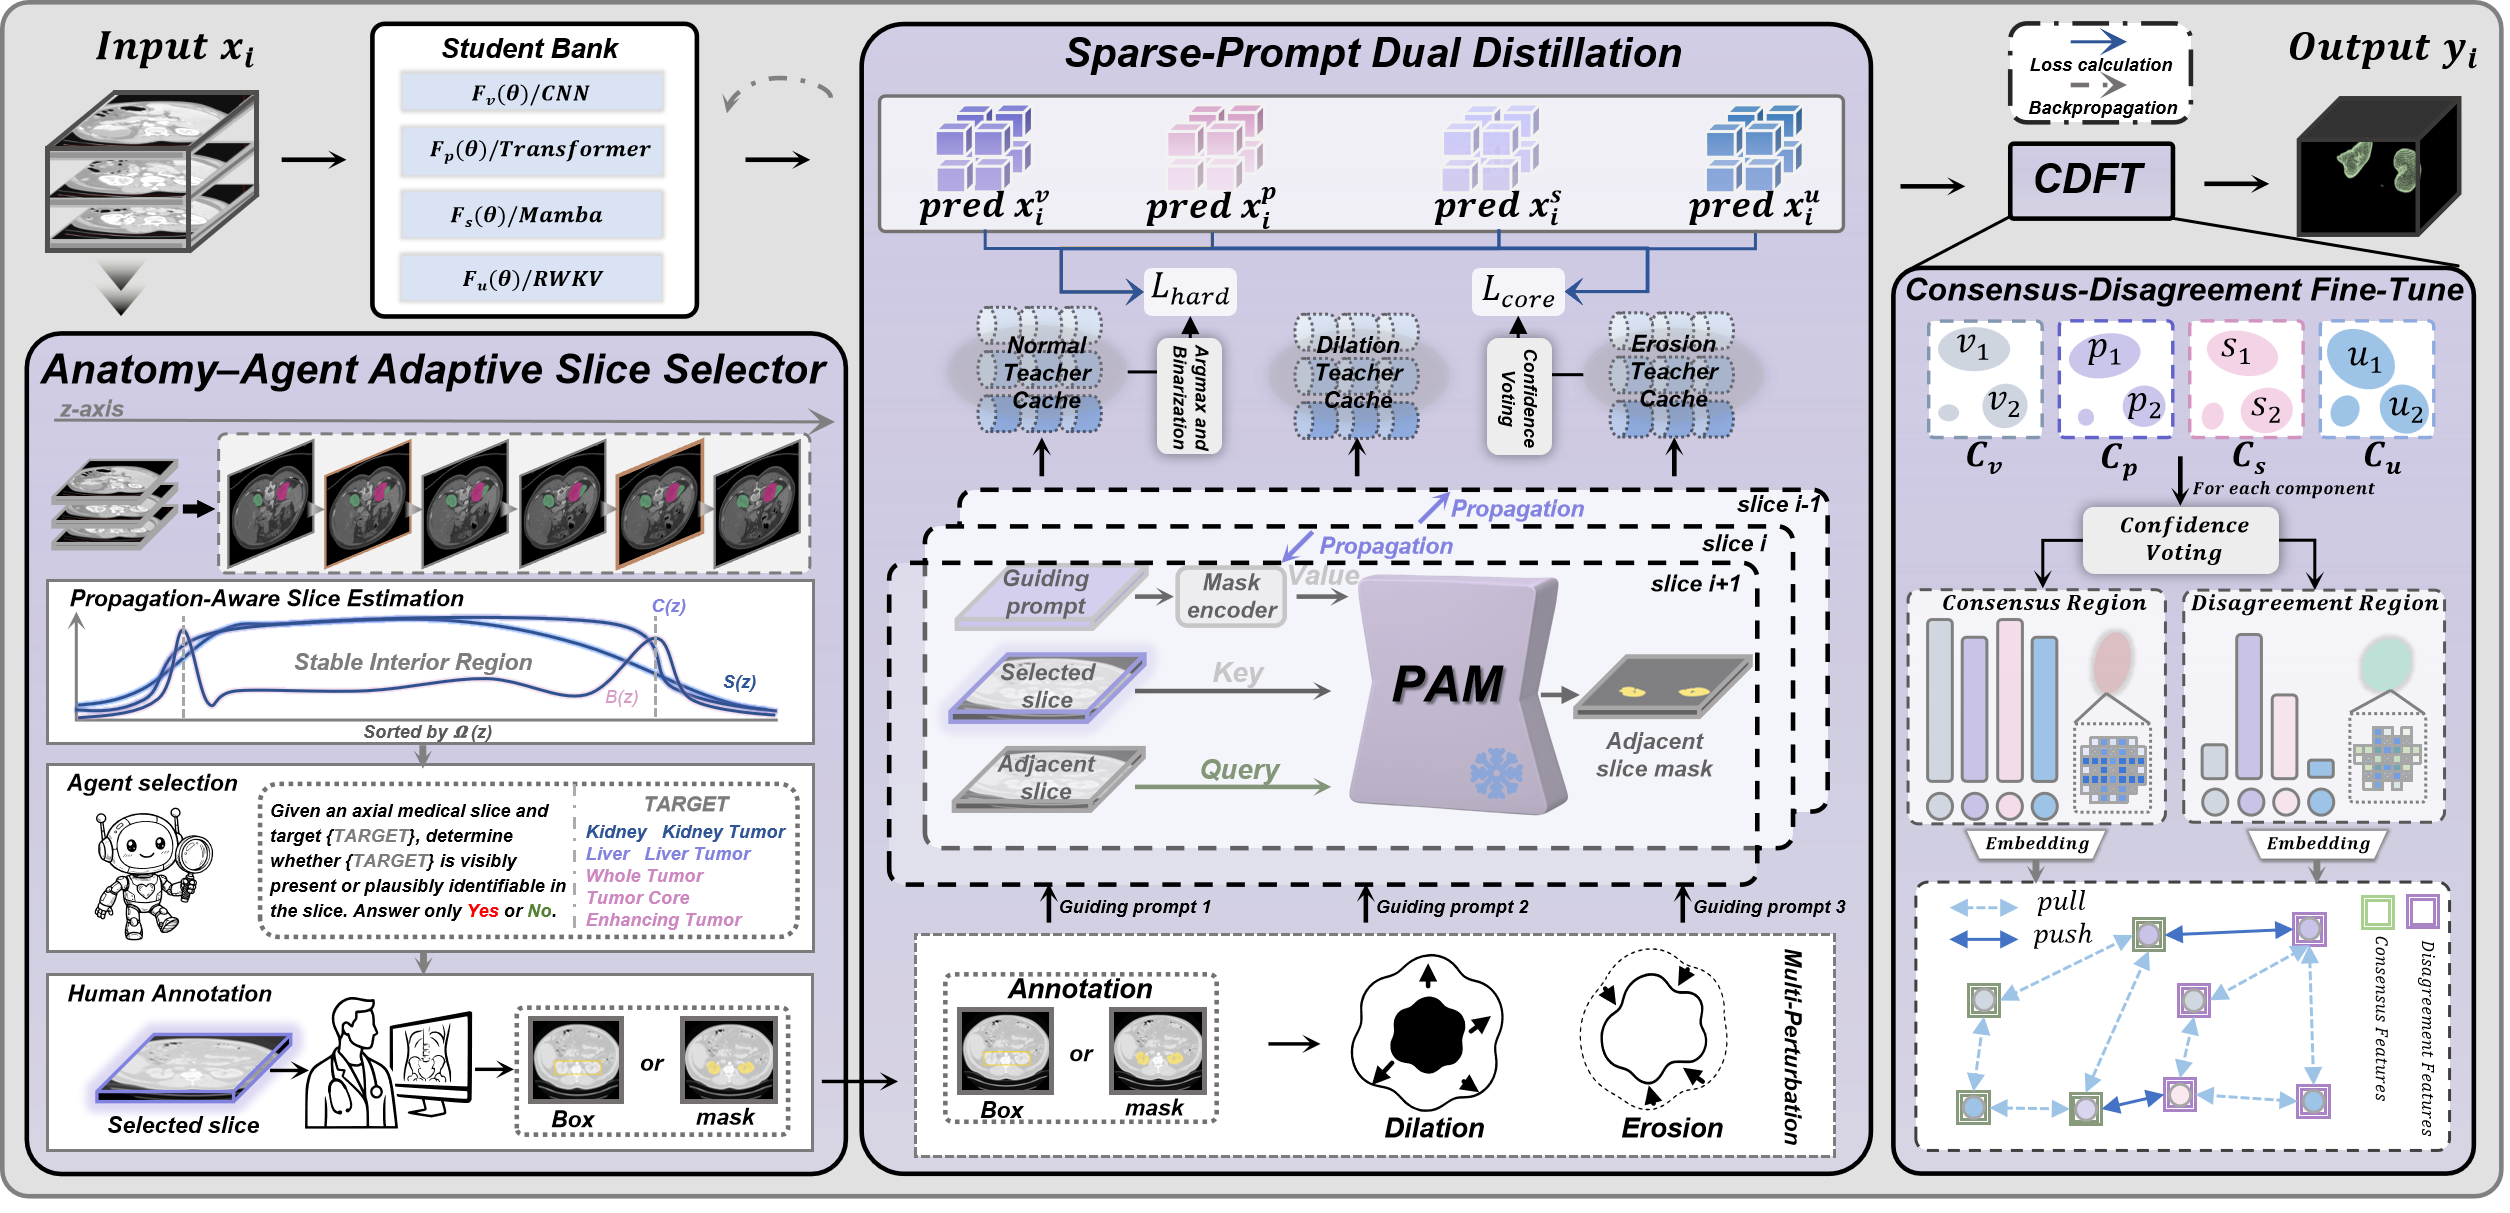
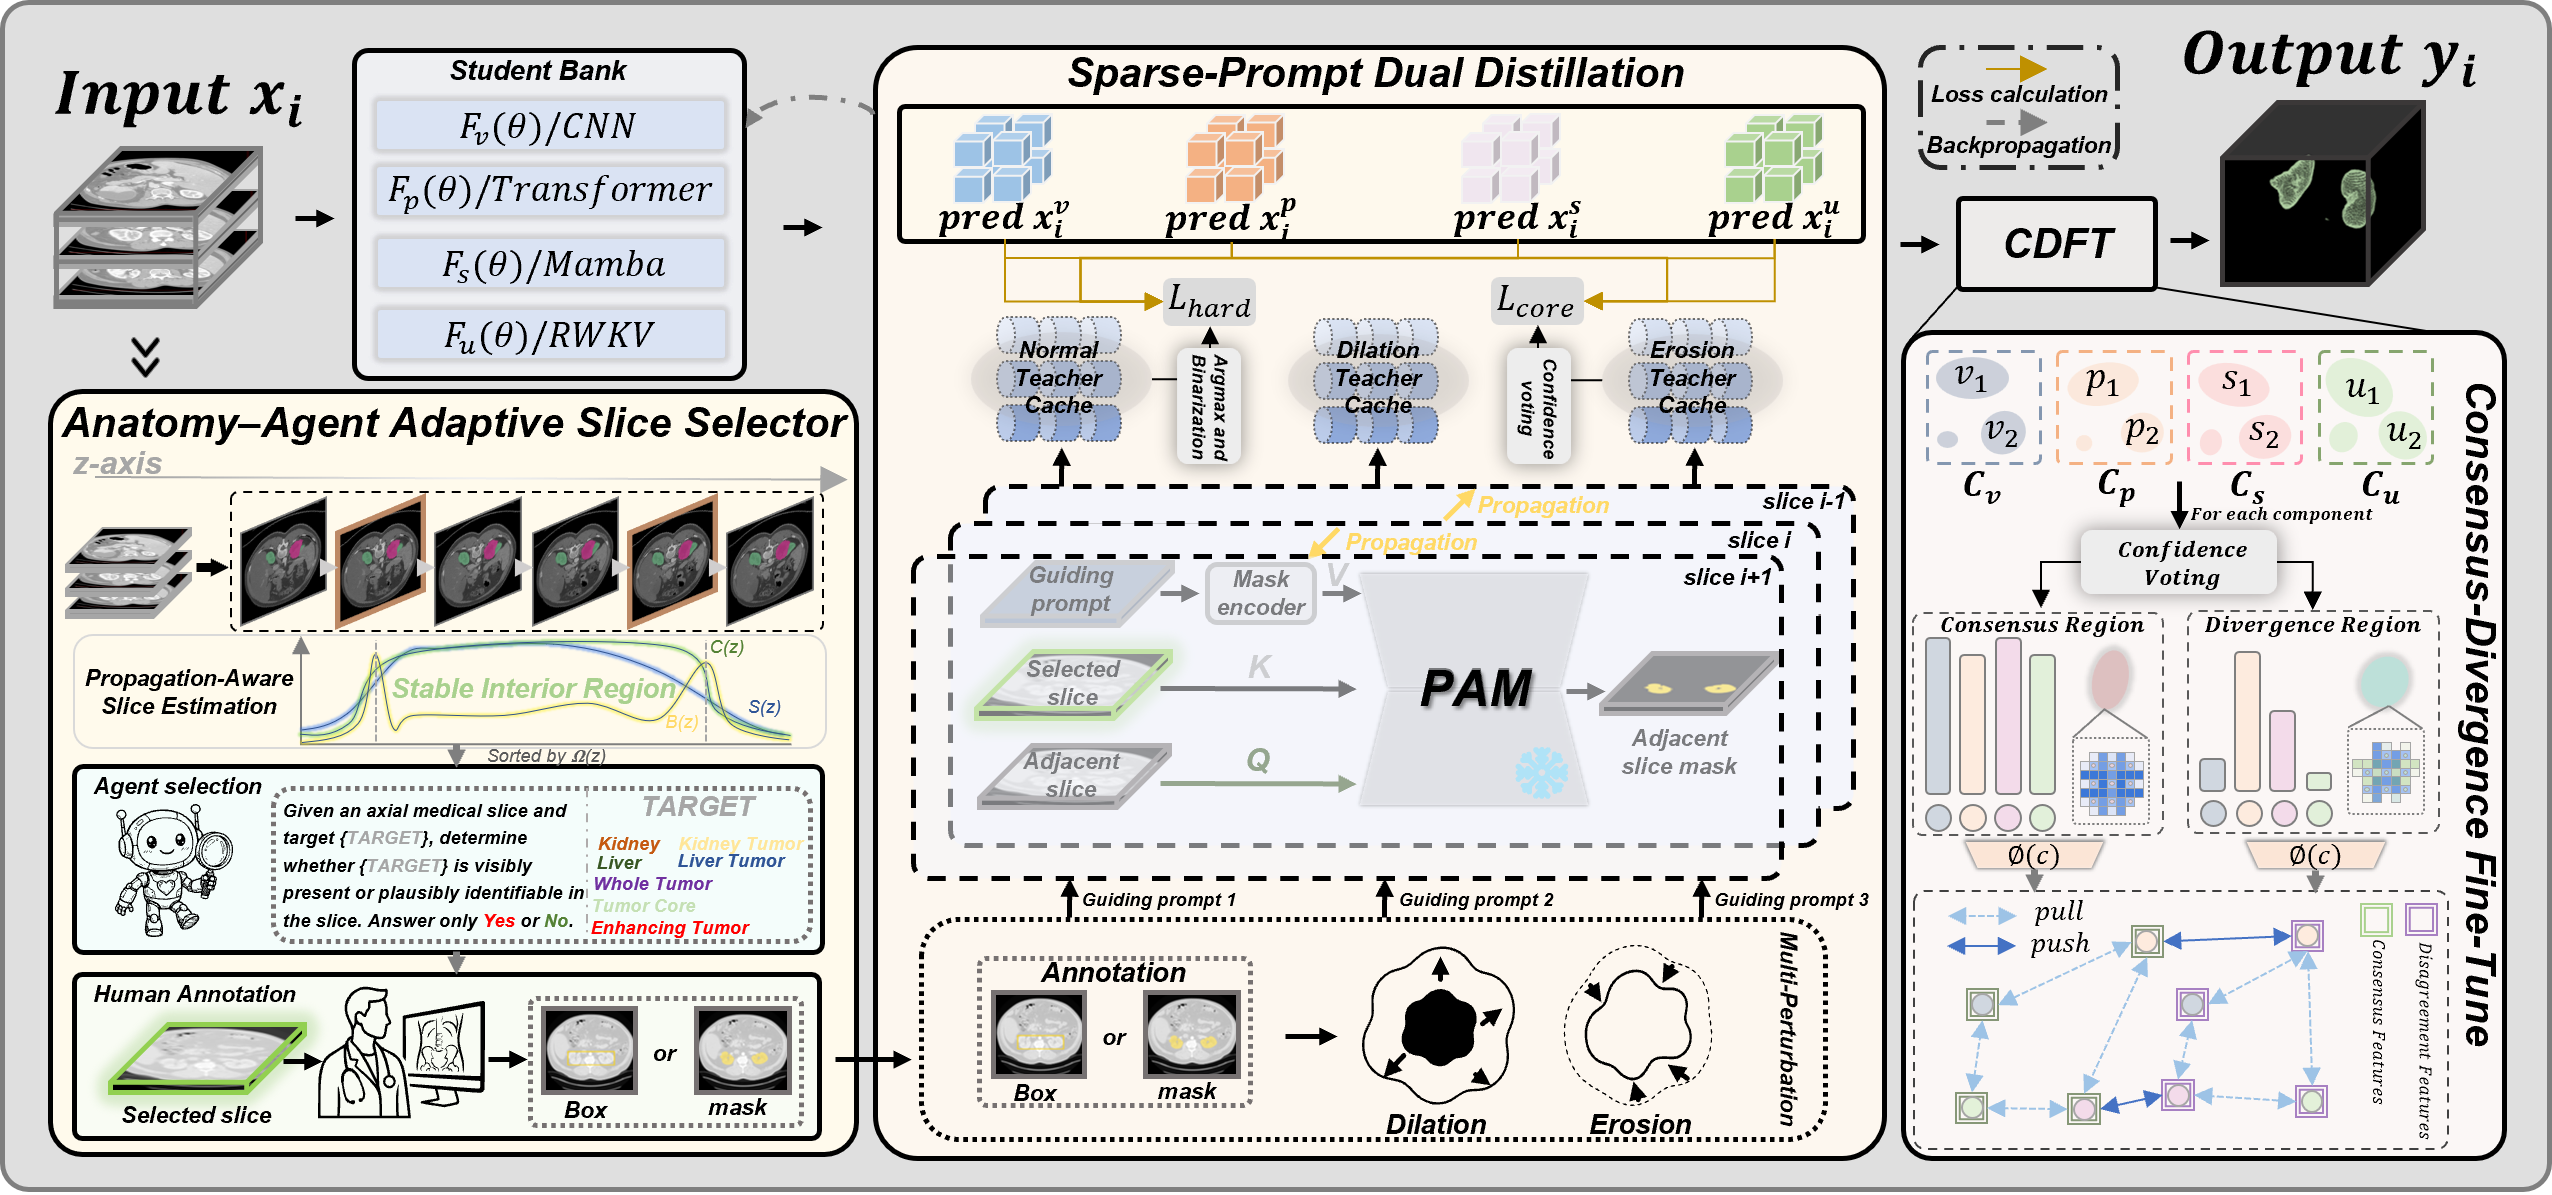
Sync DisPAM implementation and metadata

diff --git a/dispam/losses.py b/dispam/losses.py
@@ -1,4 +1,12 @@
-"""Hard-Core distillation and Consensus-Divergence objectives."""
+"""Hard-Core distillation and Consensus-Divergence objectives.
+
+Paper mapping:
+  Hard-Core Dual Distillation uses the Normal PAM mask for Hard supervision and
+  the confidence-filtered Dilation/Erosion intersection for Core supervision.
+  Consensus-Divergence Contrastive Learning aligns cross-model Consensus
+  descriptors and separates Divergence descriptors from the stopped Consensus
+  reference.
+"""
 
 from __future__ import annotations
 
@@ -21,6 +29,7 @@ def dice_loss(logits: torch.Tensor, target: torch.Tensor) -> torch.Tensor:
 
 def hard_distillation_loss(logits: torch.Tensor, hard_target: torch.Tensor) -> torch.Tensor:
     """Unweighted BCE-Dice supervision from the Normal PAM branch."""
+    # HCDD correspondence: this is the Hard term L_hard.
     bce = F.binary_cross_entropy_with_logits(logits, hard_target.float())
     return bce + dice_loss(logits, hard_target)
 
@@ -31,6 +40,7 @@ def core_distillation_loss(
     core_region: torch.Tensor,
 ) -> torch.Tensor | None:
     """Bernoulli KL on voxels jointly accepted by Dilation and Erosion."""
+    # HCDD correspondence: this is the Core term L_core.
     active = core_region.float()
     if float(active.sum().item()) <= 0:
         return None
@@ -112,6 +122,8 @@ def consensus_divergence_contrastive_loss(
     other three models is the positive reference. Every Divergence component
     from the same model contributes to the global relative-negative mean.
     """
+    # CDFT correspondence: Consensus components are cross-model positives,
+    # whereas Divergence components provide relative negatives.
     if len(descriptor_fields) != 4:
         raise ValueError("CDFT contrast requires four descriptor fields.")
     losses: List[torch.Tensor] = []

diff --git a/dispam/pam.py b/dispam/pam.py
@@ -308,6 +308,8 @@ def build_multi_perturbation_targets(
     binarization_threshold: float,
     confidence_threshold: float,
 ) -> Dict[str, np.ndarray]:
+    # Multi-Perturbation PAM: normal, dilation, and erosion implement
+    # M^{star,0}, M^{star,1}, and M^{star,2}, respectively.
     probabilities = {
         mode: pam.propagate(
             volume_zyx,
@@ -328,6 +330,8 @@ def build_multi_perturbation_targets(
     )
     dilation_binary = dilation >= float(binarization_threshold)
     erosion_binary = erosion >= float(binarization_threshold)
+    # The Hard target comes from the Normal branch; the Core region and
+    # probability come from confidence-filtered Dilation/Erosion agreement.
     core_region = (
         dilation_confident
         & erosion_confident

diff --git a/scripts/statistical_tests.py b/scripts/statistical_tests.py
@@ -26,6 +26,7 @@ def parse_args() -> argparse.Namespace:
     parser.add_argument("--method", required=True)
     parser.add_argument("--case-column", default="case_id")
     parser.add_argument("--metric-column", required=True)
+    parser.add_argument("--alpha", type=float, default=0.05)
     parser.add_argument("--output", default="")
     return parser.parse_args()
 
@@ -78,6 +79,8 @@ def main() -> None:
         "matched_case_count": len(case_ids),
         "statistic": statistic,
         "p_value": p_value,
+        "alpha": float(args.alpha),
+        "significant": bool(p_value < float(args.alpha)),
         "case_ids": case_ids,
     }
     output = json.dumps(payload, indent=2)

diff --git a/dispam/components.py b/dispam/components.py
@@ -65,6 +65,8 @@ def build_consensus_divergence(
     min_component_voxels: int,
 ) -> RegionBatch:
     """Build fixed regions from the four dual-distilled probability maps."""
+    # CDFT zone determination: component support and probability dispersion
+    # instantiate the paper's Consensus and Divergence region definitions.
     if len(probabilities) != 4:
         raise ValueError(f"CDFT requires four model probabilities, got {len(probabilities)}.")
     shapes = {tuple(probability.shape) for probability in probabilities}

diff --git a/dispam/slice_selector.py b/dispam/slice_selector.py
@@ -74,6 +74,8 @@ def propagation_aware_slice_estimation(
     transition = _unit_interval(
         ndi.gaussian_filter1d(transition, sigma=float(smoothing_sigma), mode="nearest")
     )
+    # PASE equations: support=S(z), interior=C(z), and
+    # boundary_stability=B(z); score is Omega(z)=S(z)C(z)B(z).
     mass = transition / max(float(transition.sum()), 1e-8)
     position = np.cumsum(mass) - mass / 2.0
     interior = np.sqrt(np.maximum(np.sin(np.pi * np.clip(position, 0.0, 1.0)), 0.0))

diff --git a/dispam/agent.py b/dispam/agent.py
@@ -1,4 +1,11 @@
-"""Target-visibility agents used after PASE ranking."""
+"""Target-visibility agents used after PASE ranking.
+
+Paper mapping:
+  Anatomy-Agent Adaptive Slice Selector / Agent Selection and Human Annotation.
+  Candidates are queried in descending PASE order, each candidate receives
+  three binary visibility decisions, and the first majority-accepted slice is
+  returned for clinician confirmation.
+"""
 
 from __future__ import annotations
 

diff --git a/scripts/train_cdft.py b/scripts/train_cdft.py
@@ -1,5 +1,9 @@
 #!/usr/bin/env python3
-"""Jointly fine-tune the four target-specific students with CDFT."""
+"""Jointly fine-tune the four target-specific students with CDFT.
+
+Paper mapping:
+  Consensus-Divergence Fine-Tune / Consensus-Divergence Contrastive Learning.
+"""
 
 from __future__ import annotations
 

diff --git a/dispam/evaluation.py b/dispam/evaluation.py
@@ -1,4 +1,9 @@
-"""Prompt-Free full-volume evaluation."""
+"""Prompt-Free full-volume evaluation.
+
+Paper mapping:
+  Test-time prediction. Each target-specific bank averages the four CDFT
+  probability maps and binarizes the result without PAM or a clinical prompt.
+"""
 
 from __future__ import annotations
 

diff --git a/scripts/train_dual_distillation.py b/scripts/train_dual_distillation.py
@@ -1,5 +1,9 @@
 #!/usr/bin/env python3
-"""Train one heterogeneous student with Hard-Core Dual Distillation."""
+"""Train one heterogeneous student with Hard-Core Dual Distillation.
+
+Paper mapping:
+  Sparse-Prompt Dual Distillation / Hard-Core Dual Distillation.
+"""
 
 from __future__ import annotations
 
